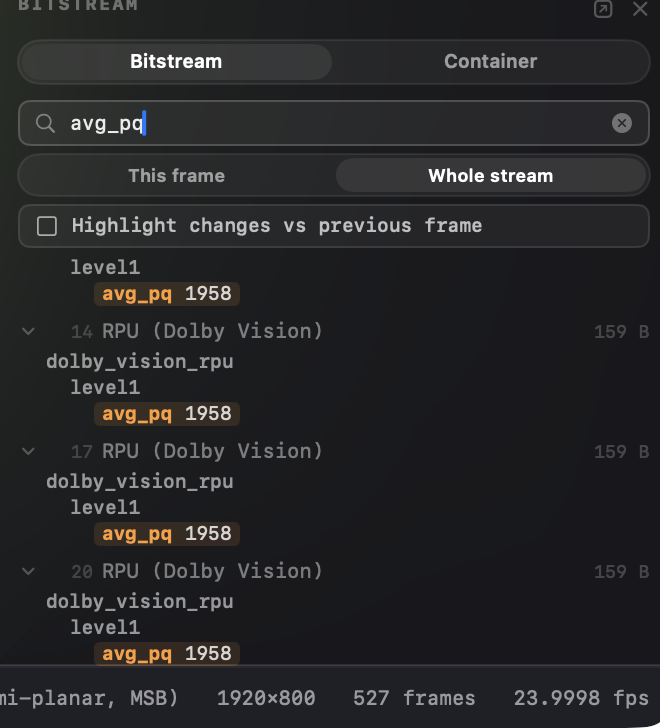
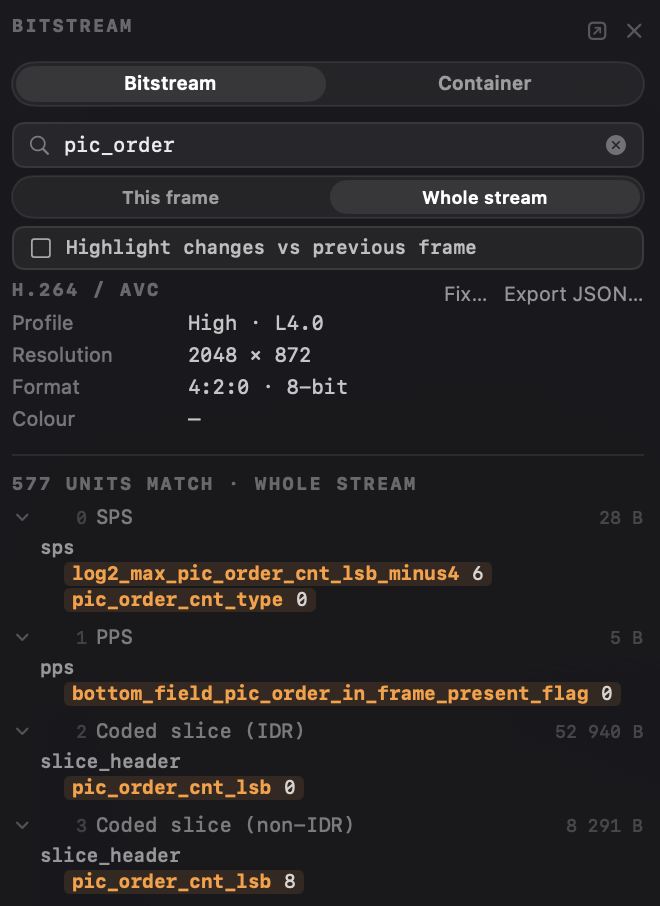
Videre: reshoot the bitstream field-search screenshot
The old capture searched avg_pq and filled the tree with RPU units. The
replacement searches pic_order on an H.264 clip, so the matches land on
the SPS, the PPS and the per-frame slice headers instead: three unit
types, whole-stream scope, 577 matches.

Claude-Session: https://claude.ai/code/session_016FDZ61WCq7kA6g6mE53sST

diff --git a/videre/guide.html b/videre/guide.html
@@ -644,7 +644,7 @@
         </ul>
 
         <figure class="shot">
-            <img src="guide-bitstream-search.png" alt="Videre's bitstream inspector: per-frame access units with a field search filtering the tree and a matching unit unfolded." loading="lazy" decoding="async">
+            <img src="guide-bitstream-search.png" alt="Videre's bitstream inspector: a whole-stream search for pic_order filtering the tree to the SPS, PPS and slice headers that carry it, each match highlighted with its value." loading="lazy" decoding="async">
             <figcaption><strong>Field search.</strong> Type a syntax-element name; the tree filters to units carrying it.</figcaption>
         </figure>
 
